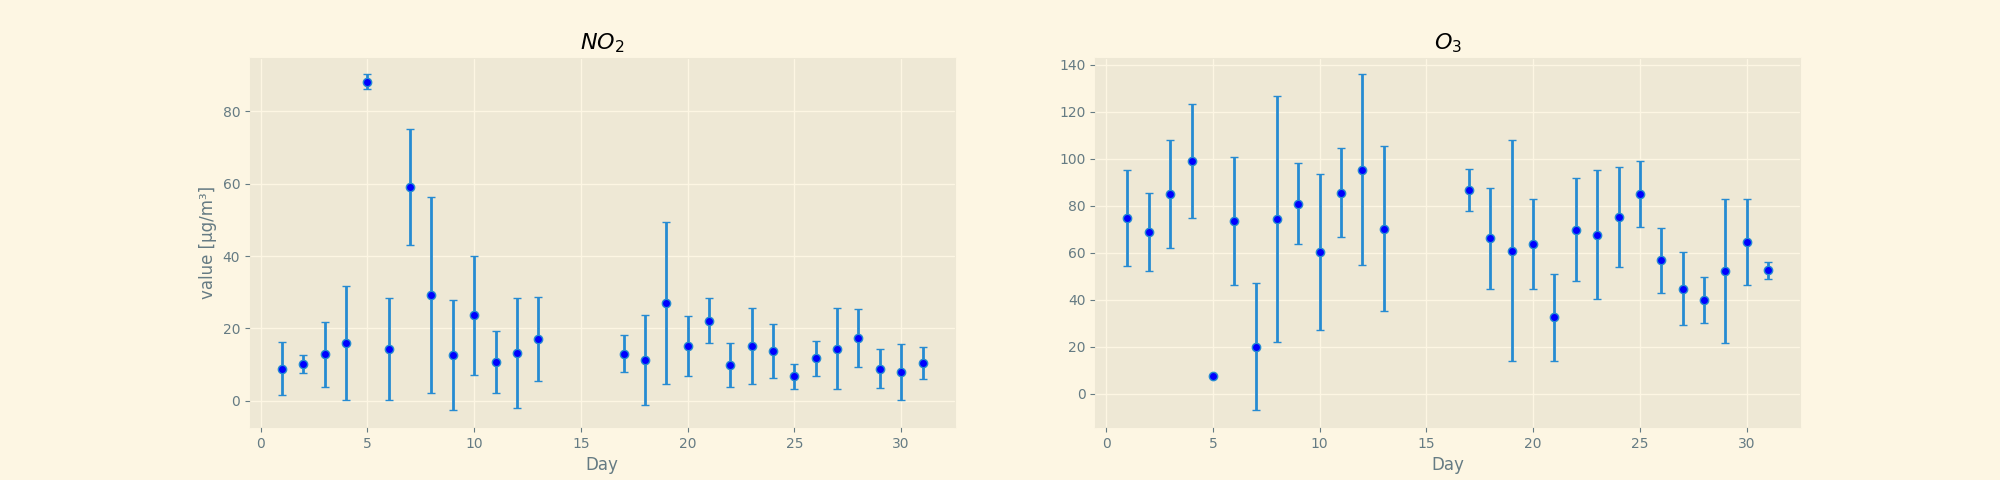
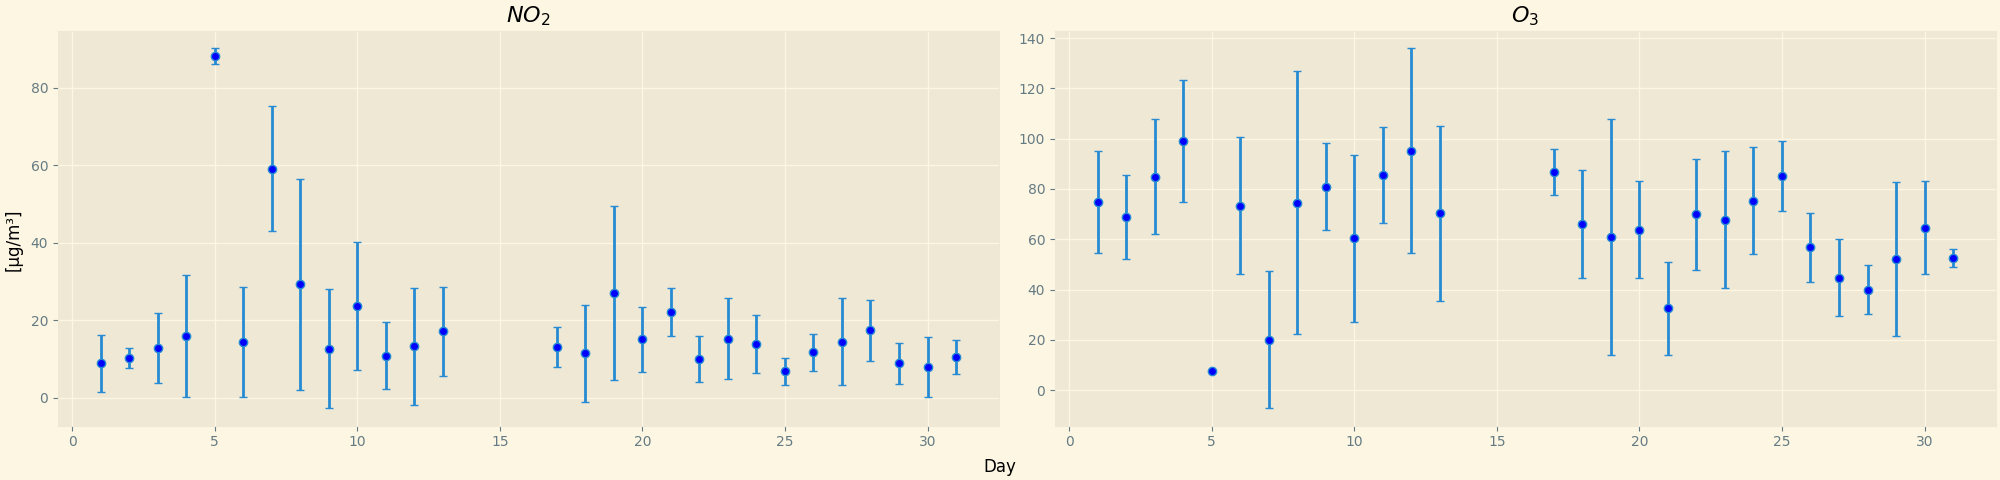
added daily_minmax

diff --git a/plot.py b/plot.py
@@ -3,7 +3,7 @@ import pandas as pd
 
 plt.style.use("Solarize_Light2")
 
-df = pd.read_csv("wokalna_clean.csv", index_col=0,
+df = pd.read_csv("csv/wokalna_clean.csv", index_col=0,
                  parse_dates=['utc', 'local'])
 
 no2 = df[df["parameter"] == "no2"]
@@ -18,17 +18,50 @@ pm25_hour = pm25.groupby(pm25["local"].dt.hour).agg(
 
 # group by the day and get mean value and standard deviation for every day in the month
 no2_day = no2.groupby(no2["local"].dt.day).agg(
-    daily=('value', 'mean'), std=('value', 'std'))
+    daily=('value', 'mean'), std=('value', 'std'),
+    min=('value', 'min'), max=('value', 'max'))
 o3_day = o3.groupby(o3["local"].dt.day).agg(
-    daily=('value', 'mean'), std=('value', 'std'))
+    daily=('value', 'mean'), std=('value', 'std'),
+    min=('value', 'min'), max=('value', 'max'))
 pm25_day = pm25.groupby(pm25["local"].dt.day).agg(
-    daily=('value', 'mean'), std=('value', 'std'))
+    daily=('value', 'mean'), std=('value', 'std'),
+    min=('value', 'min'), max=('value', 'max'))
+
+
+def daily_minmax():
+    fig, (ax1, ax2, ax3) = plt.subplots(1, 3, sharex='col', layout='constrained')
+    fig.set_figwidth(20)
+    fig.supxlabel("Day")
+    fig.supylabel("[µg/m³]")
+
+    ax1.set_title(r'$NO_2$')
+    ax2.set_title(r'$O_3$')
+    ax3.set_title(r'$PM2.5')
+
+    ax1.plot(no2_day.index, no2_day['min'],
+            '--b', label="min", linewidth=1)
+    ax1.plot(no2_day.index, no2_day['max'],
+            '--r', label="max", linewidth=1)
+    ax1.legend()
+
+    ax2.plot(o3_day.index, o3_day['min'],
+            '--b', label="min", linewidth=1)
+    ax2.plot(o3_day.index, o3_day['max'],
+            '--r', label="max", linewidth=1)
+    ax2.legend()
+
+    ax3.plot(pm25_day.index, pm25_day['min'],
+            '--b', label="min", linewidth=1)
+    ax3.plot(pm25_day.index, pm25_day['max'],
+            '--r', label="max", linewidth=1)
+    ax3.legend()
+    fig.savefig("img/daily_minmax.png")
 
 
 def hourly_mean():
     fig, ax = plt.subplots()
     ax.set_xlabel("Hour")
-    ax.set_ylabel("value [µg/m³]")
+    ax.set_ylabel("[µg/m³]")
     ax.plot(no2_hour, '-r', label=r'$NO_2$', linewidth=1)
     ax.plot(o3_hour, '-g', label=r'$O_3$', linewidth=1)
     ax.plot(pm25_hour, '-m',  label=r'$PM2.5$', linewidth=1)
@@ -39,7 +72,7 @@ def hourly_mean():
 def daily_mean():
     fig, ax = plt.subplots()
     ax.set_xlabel("Day")
-    ax.set_ylabel("value [µg/m³]")
+    ax.set_ylabel("[µg/m³]")
     fig.set_figwidth(15)
     ax.plot(no2_day.index, no2_day['daily'],
             '-r', label=r'$NO_2$', linewidth=1)
@@ -51,15 +84,12 @@ def daily_mean():
 
 
 def daily_mean_std():
-    fig, (ax1, ax2) = plt.subplots(1, 2, sharex='col')
-
-    ax1.set_xlabel("Day")
-    ax2.set_xlabel("Day")
+    fig, (ax1, ax2) = plt.subplots(1, 2, sharex='col', layout='constrained')
+    fig.supxlabel("Day")
+    fig.supylabel("[µg/m³]")
 
     ax1.set_title(r'$NO_2$')
     ax2.set_title(r'$O_3$')
-
-    ax1.set_ylabel("value [µg/m³]")
 
     fig.set_figwidth(20)
     ax1.errorbar(no2_day.index, no2_day['daily'], yerr=no2_day['std'],
@@ -73,3 +103,4 @@ def daily_mean_std():
 hourly_mean()
 daily_mean()
 daily_mean_std()
+daily_minmax()
